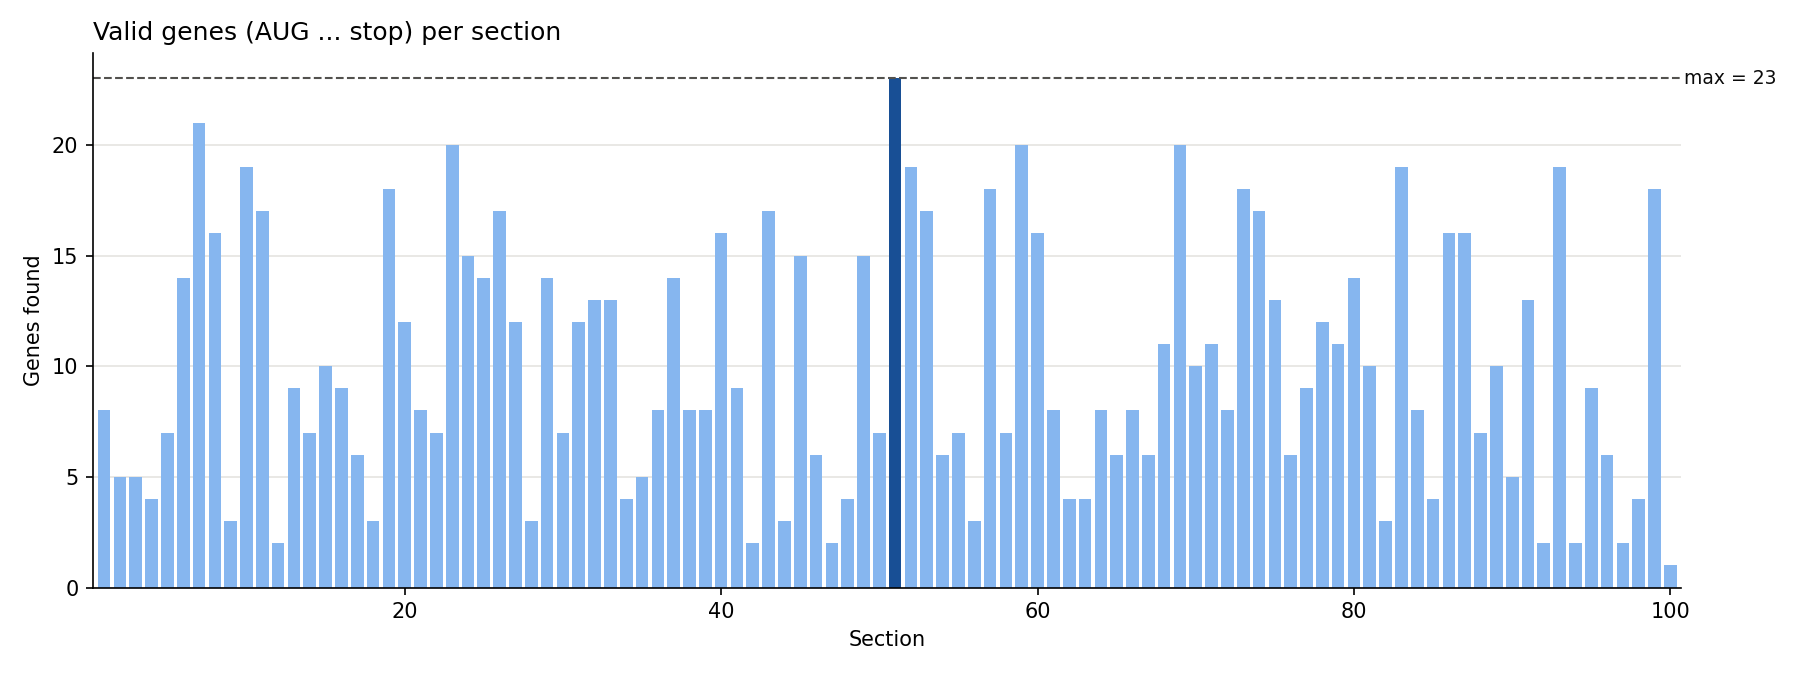
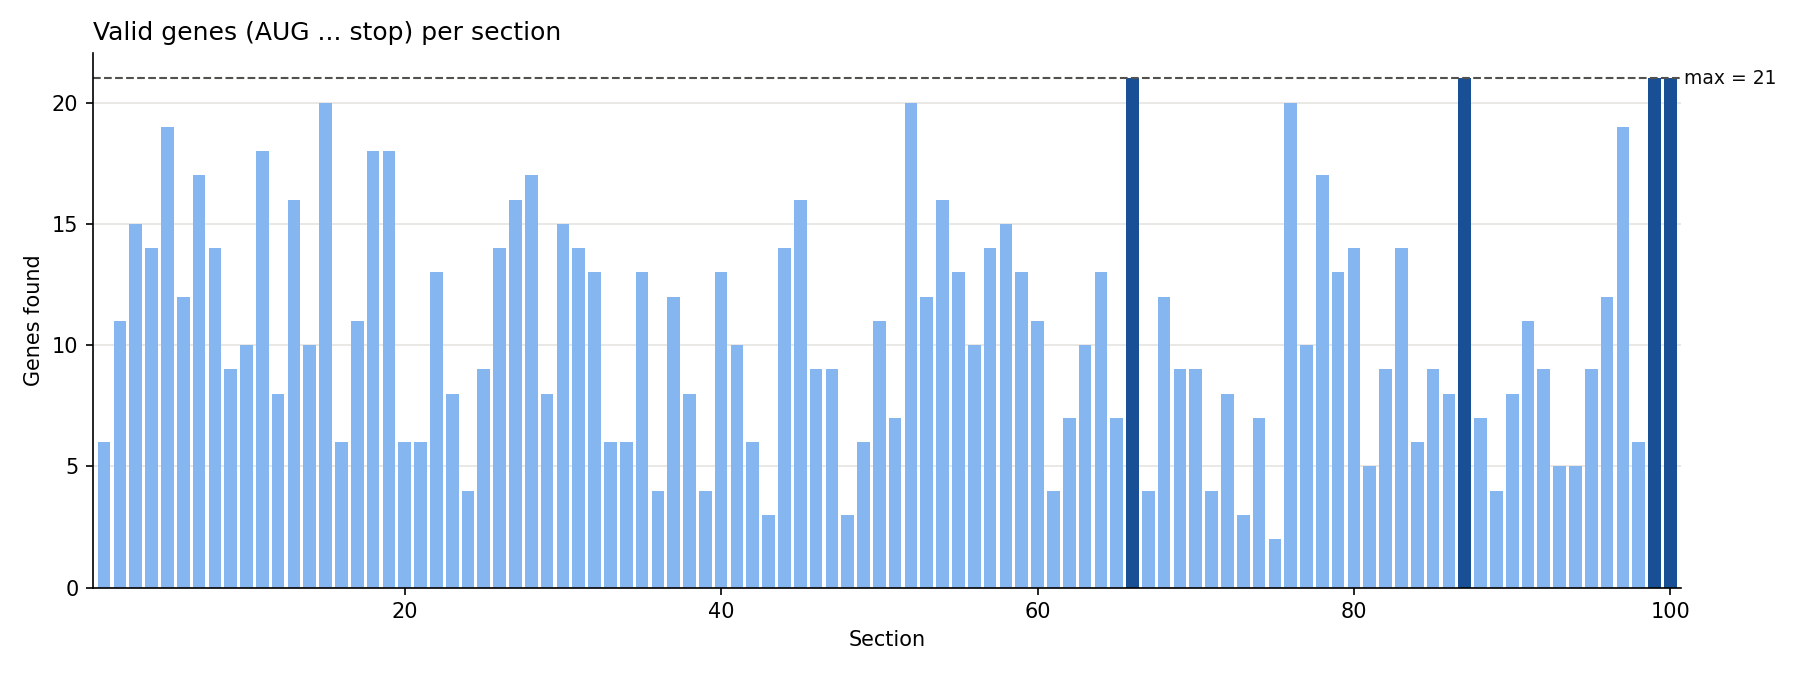
.

Changed region(s): [[0.0311, 0.0933, 0.9333, 0.8711], [0.0311, 0.1244, 0.0622, 0.1556]]

diff --git a/lab2_sections.py b/lab2_sections.py
@@ -4,46 +4,32 @@ import sys
 
 import matplotlib.pyplot as plt
 
-from lab2 import clean_sequence, find_genes
+from lab2 import clean_sequence, find_genes, find_open_starts, read_fasta
 
 ALPHABET = "ACGT"
 
 
 def generate_dna(length):
-    # build a random DNA sequence, one letter at a time
-    sequence = ""
-    for i in range(length):
-        sequence = sequence + random.choice(ALPHABET)
-    return sequence
-
-
-def read_fasta(text):
-    # split a FASTA text into (name, sequence) sections, any number of them
-    sections = []
-    name = None
-    lines = []
-    for line in text.splitlines():
-        if line.startswith(">"):
-            if name is not None:
-                sections.append((name, clean_sequence("\n".join(lines))))
-            name = line[1:].strip()
-            lines = []
-        else:
-            lines.append(line)
-    if name is not None:
-        sections.append((name, clean_sequence("\n".join(lines))))
-    return sections
+    # build a random DNA sequence
+    return "".join(random.choice(ALPHABET) for i in range(length))
 
 
 def random_sections(count, min_len, max_len):
-    sections = []
+    # yield random sections one at a time
     for n in range(count):
         dna = generate_dna(random.randint(min_len, max_len))
-        sections.append(("random_" + str(n + 1), clean_sequence(dna)))
-    return sections
+        yield "random_" + str(n + 1), clean_sequence(dna)
 
 
-def plot_gene_counts(names, counts, out_file):
+def file_sections(paths):
+    # yield the sections of every file, one at a time (any number of files/sections)
+    for path in paths:
+        with open(path) as f:
+            for name, rna in read_fasta(f):
+                yield name, rna
+
+
+def plot_gene_counts(counts, out_file):
     best = max(counts)
     # one hue; the section(s) with the most genes get the darker step
     colors = ["#184f95" if c == best else "#86b6ef" for c in counts]
@@ -60,6 +46,8 @@ def plot_gene_counts(names, counts, out_file):
     ax.set_xlabel("Section")
     ax.set_ylabel("Genes found")
     ax.set_xlim(0.3, len(counts) + 0.7)
+    if len(counts) <= 30:
+        ax.set_xticks(list(x))
     ax.yaxis.get_major_locator().set_params(integer=True)
     ax.spines[["top", "right"]].set_visible(False)
     ax.grid(axis="y", color="#e5e4e0", linewidth=0.8)
@@ -75,28 +63,32 @@ if __name__ == "__main__":
     # usage: python lab2_sections.py [file1.fasta file2.fasta ...]
     # with no files, 100 random sections are generated
     if len(sys.argv) > 1:
-        sections = []
-        for path in sys.argv[1:]:
-            with open(path) as f:
-                sections = sections + read_fasta(f.read())
+        sections = file_sections(sys.argv[1:])
     else:
         sections = random_sections(100, 300, 1500)
 
+    # only the counts are kept, never all the sequences at once
     names = []
     counts = []
     for name, rna in sections:
         genes = find_genes(rna)
+        open_starts = find_open_starts(rna)
         names.append(name)
         counts.append(len(genes))
-        print(len(names), ":", name[:50], "|", len(rna), "nt |", len(genes), "genes")
+        print(len(names), ":", name[:50], "|", len(rna), "nt |", len(genes),
+              "valid genes |", len(open_starts), "AUG with no stop")
+
+    if not counts:
+        print("No sections found.")
+        sys.exit()
 
     best = max(counts)
     print()
-    print("Sections:", len(sections))
+    print("Sections:", len(counts))
     print("Max genes in one section:", best)
-    for name, c in zip(names, counts):
+    for n, (name, c) in enumerate(zip(names, counts), 1):
         if c == best:
-            print("  ->", name)
+            print("  -> section", n, ":", name)
 
     here = os.path.dirname(os.path.abspath(__file__))
-    plot_gene_counts(names, counts, os.path.join(here, "genes_per_section.png"))
+    plot_gene_counts(counts, os.path.join(here, "genes_per_section.png"))

diff --git a/main7.py b/main7.py
@@ -27,7 +27,10 @@ def stream_fasta(file_path_or_text):
     MODIFIED: Replaced list-based parsing with a generator to process an
     unlimited number of sequences without loading all sequences into RAM at once.
     """
-    lines = file_path_or_text.splitlines() if "\n" in file_path_or_text else open(file_path_or_text, 'r')
+    # FIXED: open it as a file only if that file exists; anything else is
+    # FASTA text (the old check treated one-line text as a file name)
+    is_file = os.path.isfile(file_path_or_text)
+    lines = open(file_path_or_text, 'r') if is_file else file_path_or_text.splitlines()
     header = None
     chunks = []
 
@@ -46,44 +49,46 @@ def stream_fasta(file_path_or_text):
     if header is not None:
         yield header, "".join(chunks)
 
-    if not isinstance(file_path_or_text, str) or "\n" not in file_path_or_text:
+    if is_file:
         lines.close()
 
 
 def count_valid_genes(sequence):
     """
-    MODIFIED: Extracted from anterior extract_valid_proteins.
     Counts valid ORFs obeying the professor's rule:
     - Initiates translation at AUG.
     - Disregards any internal AUG within the frame until a stop codon is met.
     - Increments count only if terminated by a valid stop codon.
+    FIXED: each of the 3 reading frames is scanned on its own. The old version
+    moved one letter at a time and jumped past every stop, so genes in the
+    other frames that started before that stop were never counted.
     """
     clean_seq = sequence.upper().replace('T', 'U').replace(" ", "").replace("\n", "")
     seq_len = len(clean_seq)
     gene_count = 0
-    i = 0
 
-    while i < seq_len - 2:
-        if clean_seq[i:i + 3] == 'AUG':
+    for frame in range(3):
+        i = frame
+        while i + 3 <= seq_len:
+            if clean_seq[i:i + 3] != 'AUG':
+                i += 3
+                continue
+
             curr = i
             found_stop = False
-
             while curr + 3 <= seq_len:
-                codon = clean_seq[curr:curr + 3]
-                amino_acid = CODON_MAP.get(codon, '?')
-
-                if amino_acid == 'Stop':
+                if CODON_MAP.get(clean_seq[curr:curr + 3], '?') == 'Stop':
                     found_stop = True
-                    i = curr + 3  # Skip past the stop codon
                     break
                 curr += 3
 
-            if found_stop:
-                gene_count += 1
-            else:
-                i += 1
-        else:
-            i += 1
+            if not found_stop:
+                # no stop until the end: this ORF is invalid, and every later
+                # AUG in this frame would run off the end too
+                break
+
+            gene_count += 1
+            i = curr + 3  # continue after the stop codon
 
     return gene_count
 
@@ -171,8 +176,15 @@ def analyze_dataset_and_plot(records_source, chart_filename="gene_distribution.p
 
 
 # --- Demonstration with a synthetic 100-sequence test set ---
+# FIXED: a FASTA file given on the command line is analysed instead,
+# e.g. python main7.py influenza_na.fasta
 if __name__ == "__main__":
     import random
+    import sys
+
+    if len(sys.argv) > 1:
+        analyze_dataset_and_plot(sys.argv[1], chart_filename="gene_distribution.png")
+        sys.exit()
 
     # Generate synthetic mock FASTA data with 100 sequences to test scaling
     mock_fasta_records = []

diff --git a/lab2.py b/lab2.py
@@ -36,11 +36,35 @@ STOPS = ('UAA', 'UAG', 'UGA')
 
 def clean_sequence(text):
     # drop FASTA header lines and whitespace, convert DNA (T) to RNA (U)
-    seq = ""
+    parts = []
     for line in text.splitlines():
         if not line.startswith(">"):
-            seq = seq + line.strip().upper()
-    return seq.replace('T', 'U')
+            parts.append(line.strip().upper())
+    return "".join(parts).replace('T', 'U')
+
+
+def read_fasta(lines):
+    # yield (name, rna) one section at a time from any iterable of lines
+    # (an open file or text.splitlines()), so the number of sections is
+    # unlimited: only one sequence is held in memory at a time
+    name = None
+    chunks = []
+    for line in lines:
+        line = line.strip()
+        if not line:
+            continue
+        if line.startswith(">"):
+            if name is not None:
+                yield name, clean_sequence("\n".join(chunks))
+            name = line[1:]
+            chunks = []
+        else:
+            chunks.append(line)
+    if name is not None:
+        yield name, clean_sequence("\n".join(chunks))
+    elif chunks:
+        # plain sequence without a header
+        yield "sequence", clean_sequence("\n".join(chunks))
 
 
 def translate(rna):
@@ -108,6 +132,23 @@ def find_genes(rna):
     return genes
 
 
+def find_open_starts(rna):
+    # AUGs that never reach a stop (at most one per frame: the first AUG
+    # after the last stop of that frame; later AUGs are inside its reading
+    # and are disregarded). These are possible genes that are NOT valid.
+    starts = []
+    for frame in range(3):
+        last_stop = frame - 3
+        for i in range(frame, len(rna) - 2, 3):
+            if rna[i : i + 3] in STOPS:
+                last_stop = i
+        for i in range(last_stop + 3, len(rna) - 2, 3):
+            if rna[i : i + 3] == START:
+                starts.append({"frame": frame + 1, "start": i + 1})
+                break
+    return starts
+
+
 def longest_gene(genes):
     best = None
     for g in genes:
@@ -116,17 +157,15 @@ def longest_gene(genes):
     return best
 
 
-if __name__ == "__main__":
-    here = os.path.dirname(os.path.abspath(__file__))
-    path = sys.argv[1] if len(sys.argv) > 1 else os.path.join(here, "influenza_na.fasta")
-    with open(path) as f:
-        rna = clean_sequence(f.read())
-
+def report(name, rna):
     genes = find_genes(rna)
+    open_starts = find_open_starts(rna)
 
-    print("File:", path)
+    print("=" * 70)
+    print(name)
     print("Len:", len(rna), "nt")
     print("Valid genes (AUG ... stop):", len(genes))
+    print("AUG with no stop (not valid):", len(open_starts))
     print()
     for n, g in enumerate(genes, 1):
         print(n, ": frame", g["frame"], "| pos", g["start"], "-", g["end"],
@@ -142,3 +181,13 @@ if __name__ == "__main__":
         print(best["protein"])
         print()
         print(to_three_letter(best["protein"]))
+    print()
+
+
+if __name__ == "__main__":
+    # usage: python lab2.py [file.fasta]   (default: the influenza file)
+    here = os.path.dirname(os.path.abspath(__file__))
+    path = sys.argv[1] if len(sys.argv) > 1 else os.path.join(here, "influenza_na.fasta")
+    with open(path) as f:
+        for name, rna in read_fasta(f):
+            report(name, rna)

diff --git a/main6.py b/main6.py
@@ -1,3 +1,4 @@
+import os
 import matplotlib.pyplot as plt
 
 # Mapping codons to single-letter amino acid abbreviations
@@ -26,7 +27,10 @@ def stream_fasta(fasta_source):
     Generator that parses FASTA input line-by-line, yielding (header, sequence)
     without loading all sequence contents into memory simultaneously.
     """
-    lines = fasta_source.splitlines() if "\n" in fasta_source else open(fasta_source, 'r')
+    # FIXED: open it as a file only if that file exists; anything else is
+    # FASTA text (the old check treated one-line text as a file name)
+    is_file = os.path.isfile(fasta_source)
+    lines = open(fasta_source, 'r') if is_file else fasta_source.splitlines()
     header = None
     seq_chunks = []
 
@@ -45,7 +49,7 @@ def stream_fasta(fasta_source):
     if header is not None:
         yield header, "".join(seq_chunks)
 
-    if not isinstance(fasta_source, str) or "\n" not in fasta_source:
+    if is_file:
         lines.close()
 
 
@@ -84,7 +88,7 @@ def find_genes_in_frame(clean_seq, frame_offset):
 
             if found_stop:
                 genes.append({
-                    'start': start_pos,
+                    'start': start_pos + 1,  # FIXED: 1-based, like GenBank
                     'stop': curr + 3,
                     'length_aa': len(protein),
                     'frame': frame_offset + 1,
@@ -261,4 +265,8 @@ ACAGGACTAAGGAACATCCCATCCATTCAATCCAGAGGTTTGTTTGGAGCCATTGCCGGTTTCATTGAAG
 GGGGATGGACTGGAATTC
 """
 
-    analyze_influenza_set(influenza_dataset, check_all_frames=True)
+    # FIXED: FASTA files given on the command line are used instead of the
+    # built-in data, e.g. python main6.py influenza_na.fasta
+    import sys
+    source = sys.argv[1] if len(sys.argv) > 1 else influenza_dataset
+    analyze_influenza_set(source, check_all_frames=True)
